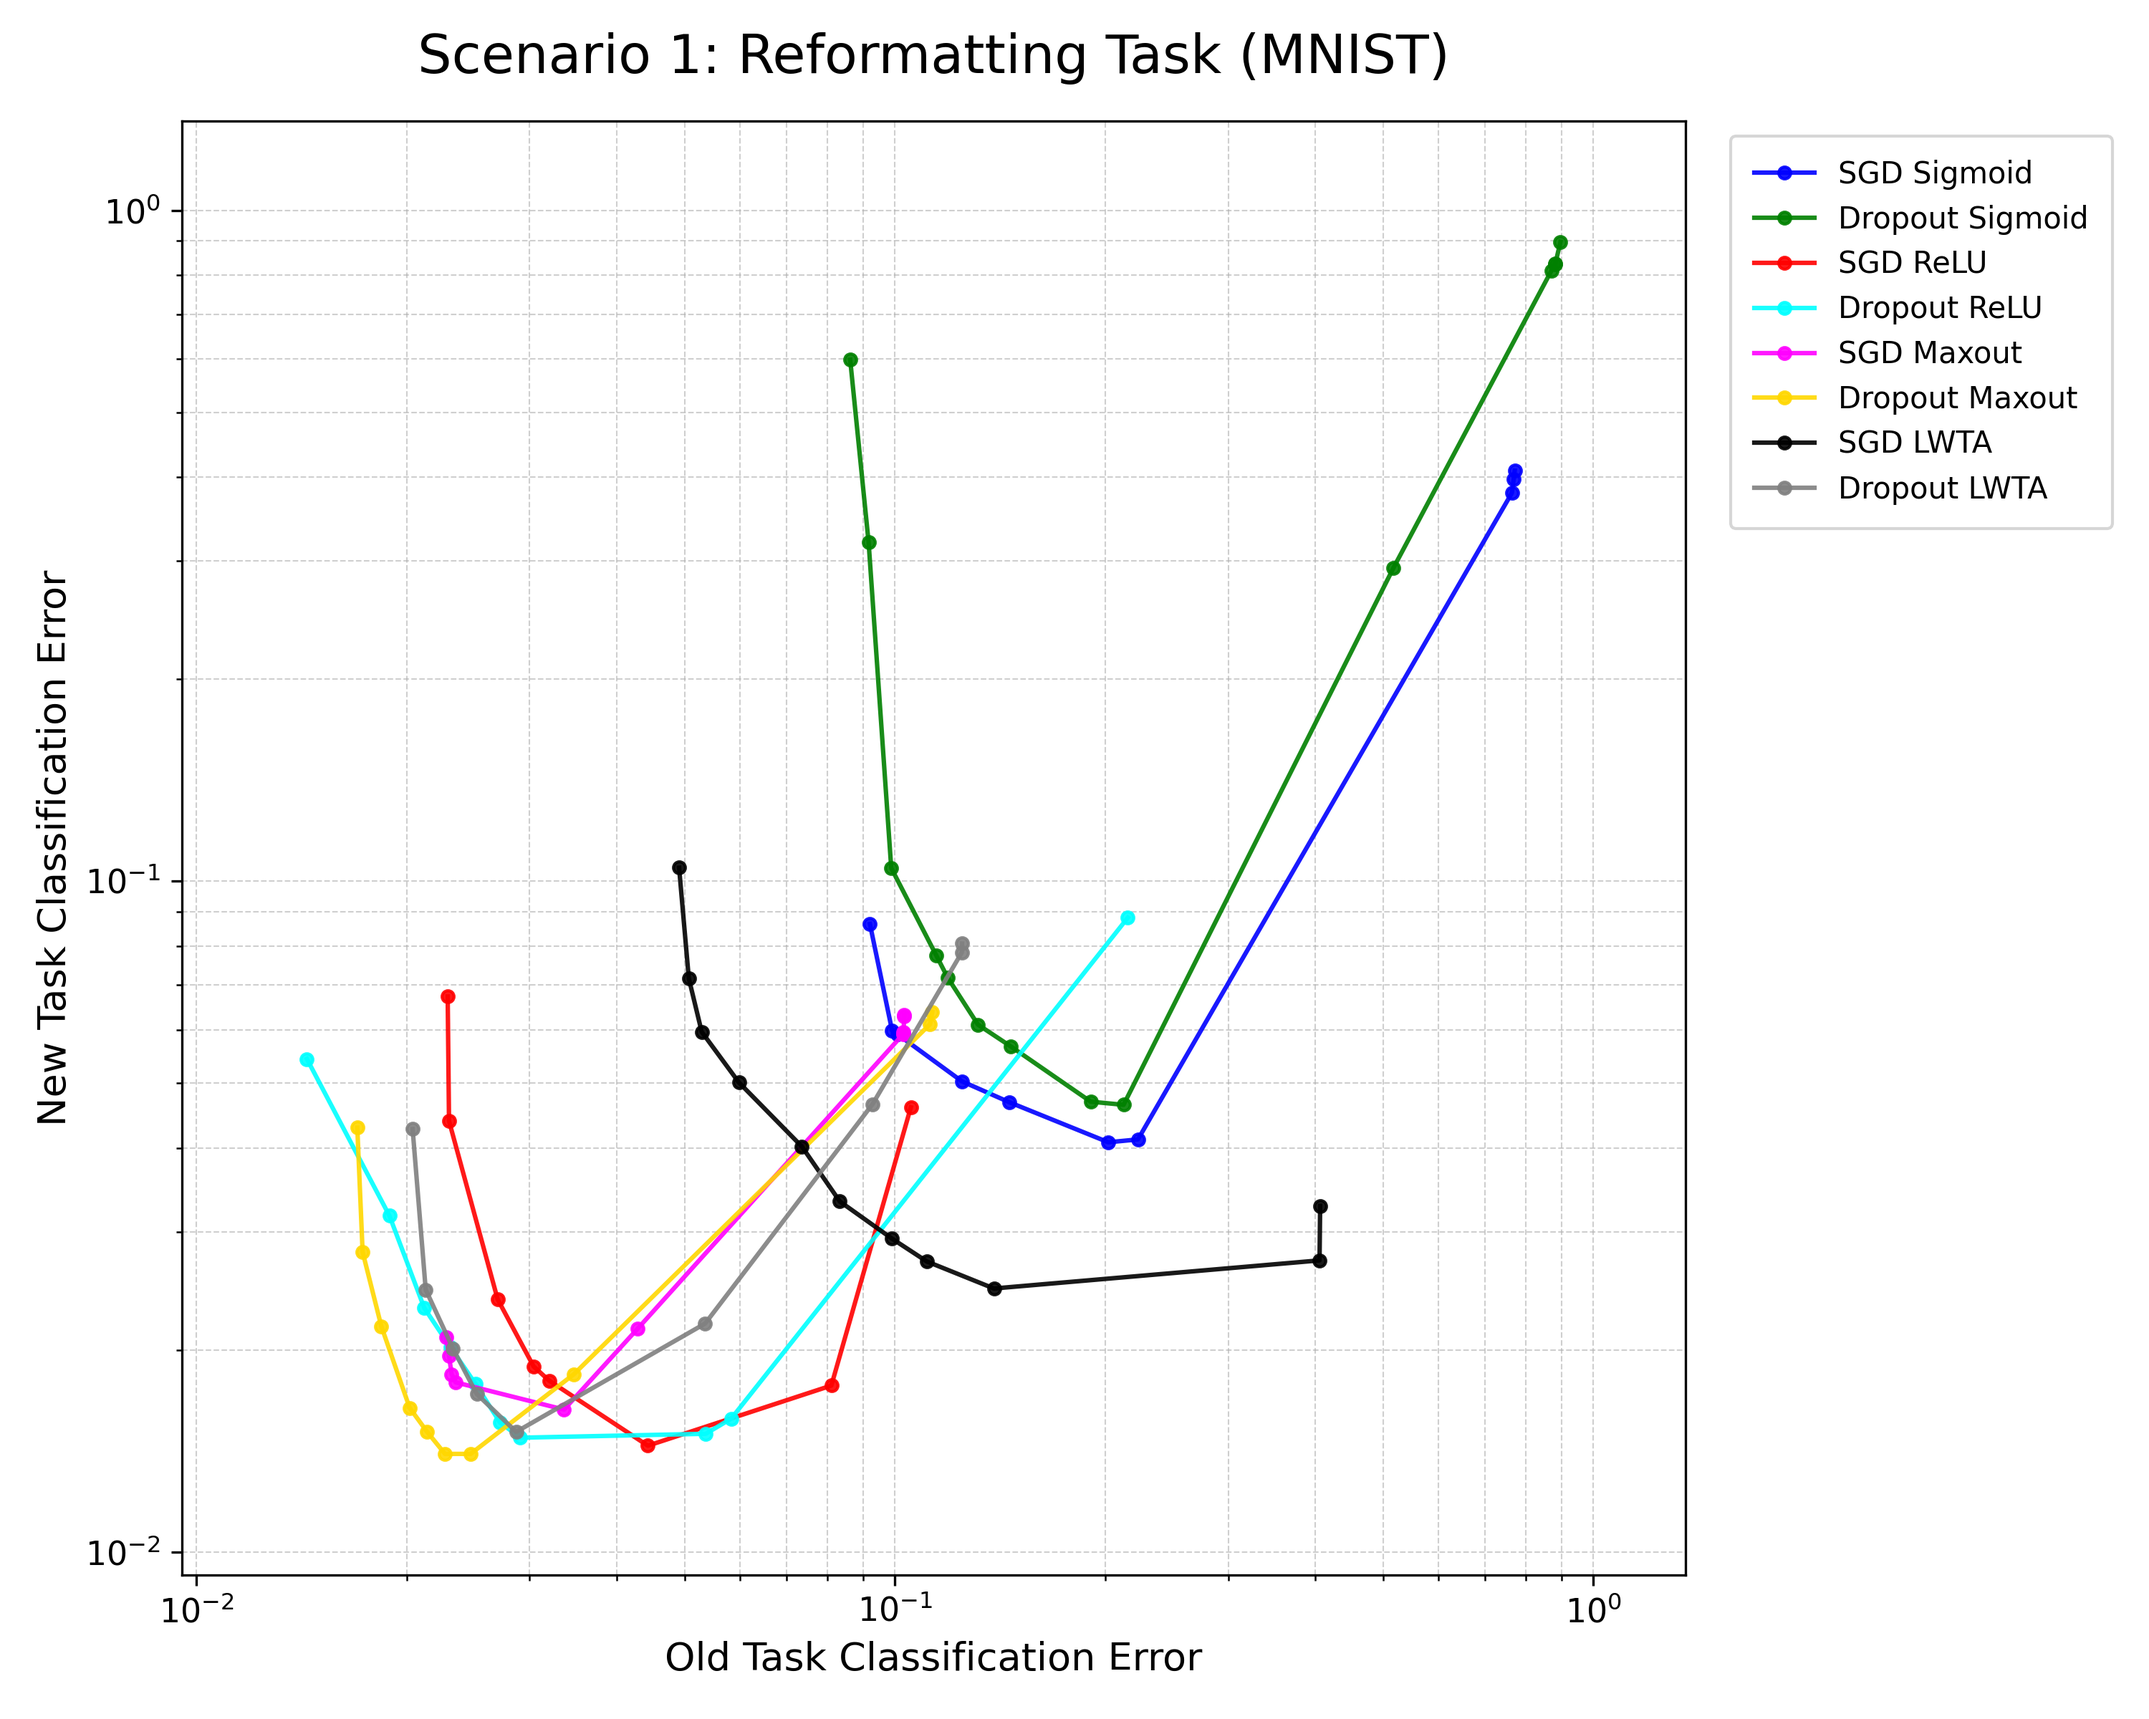
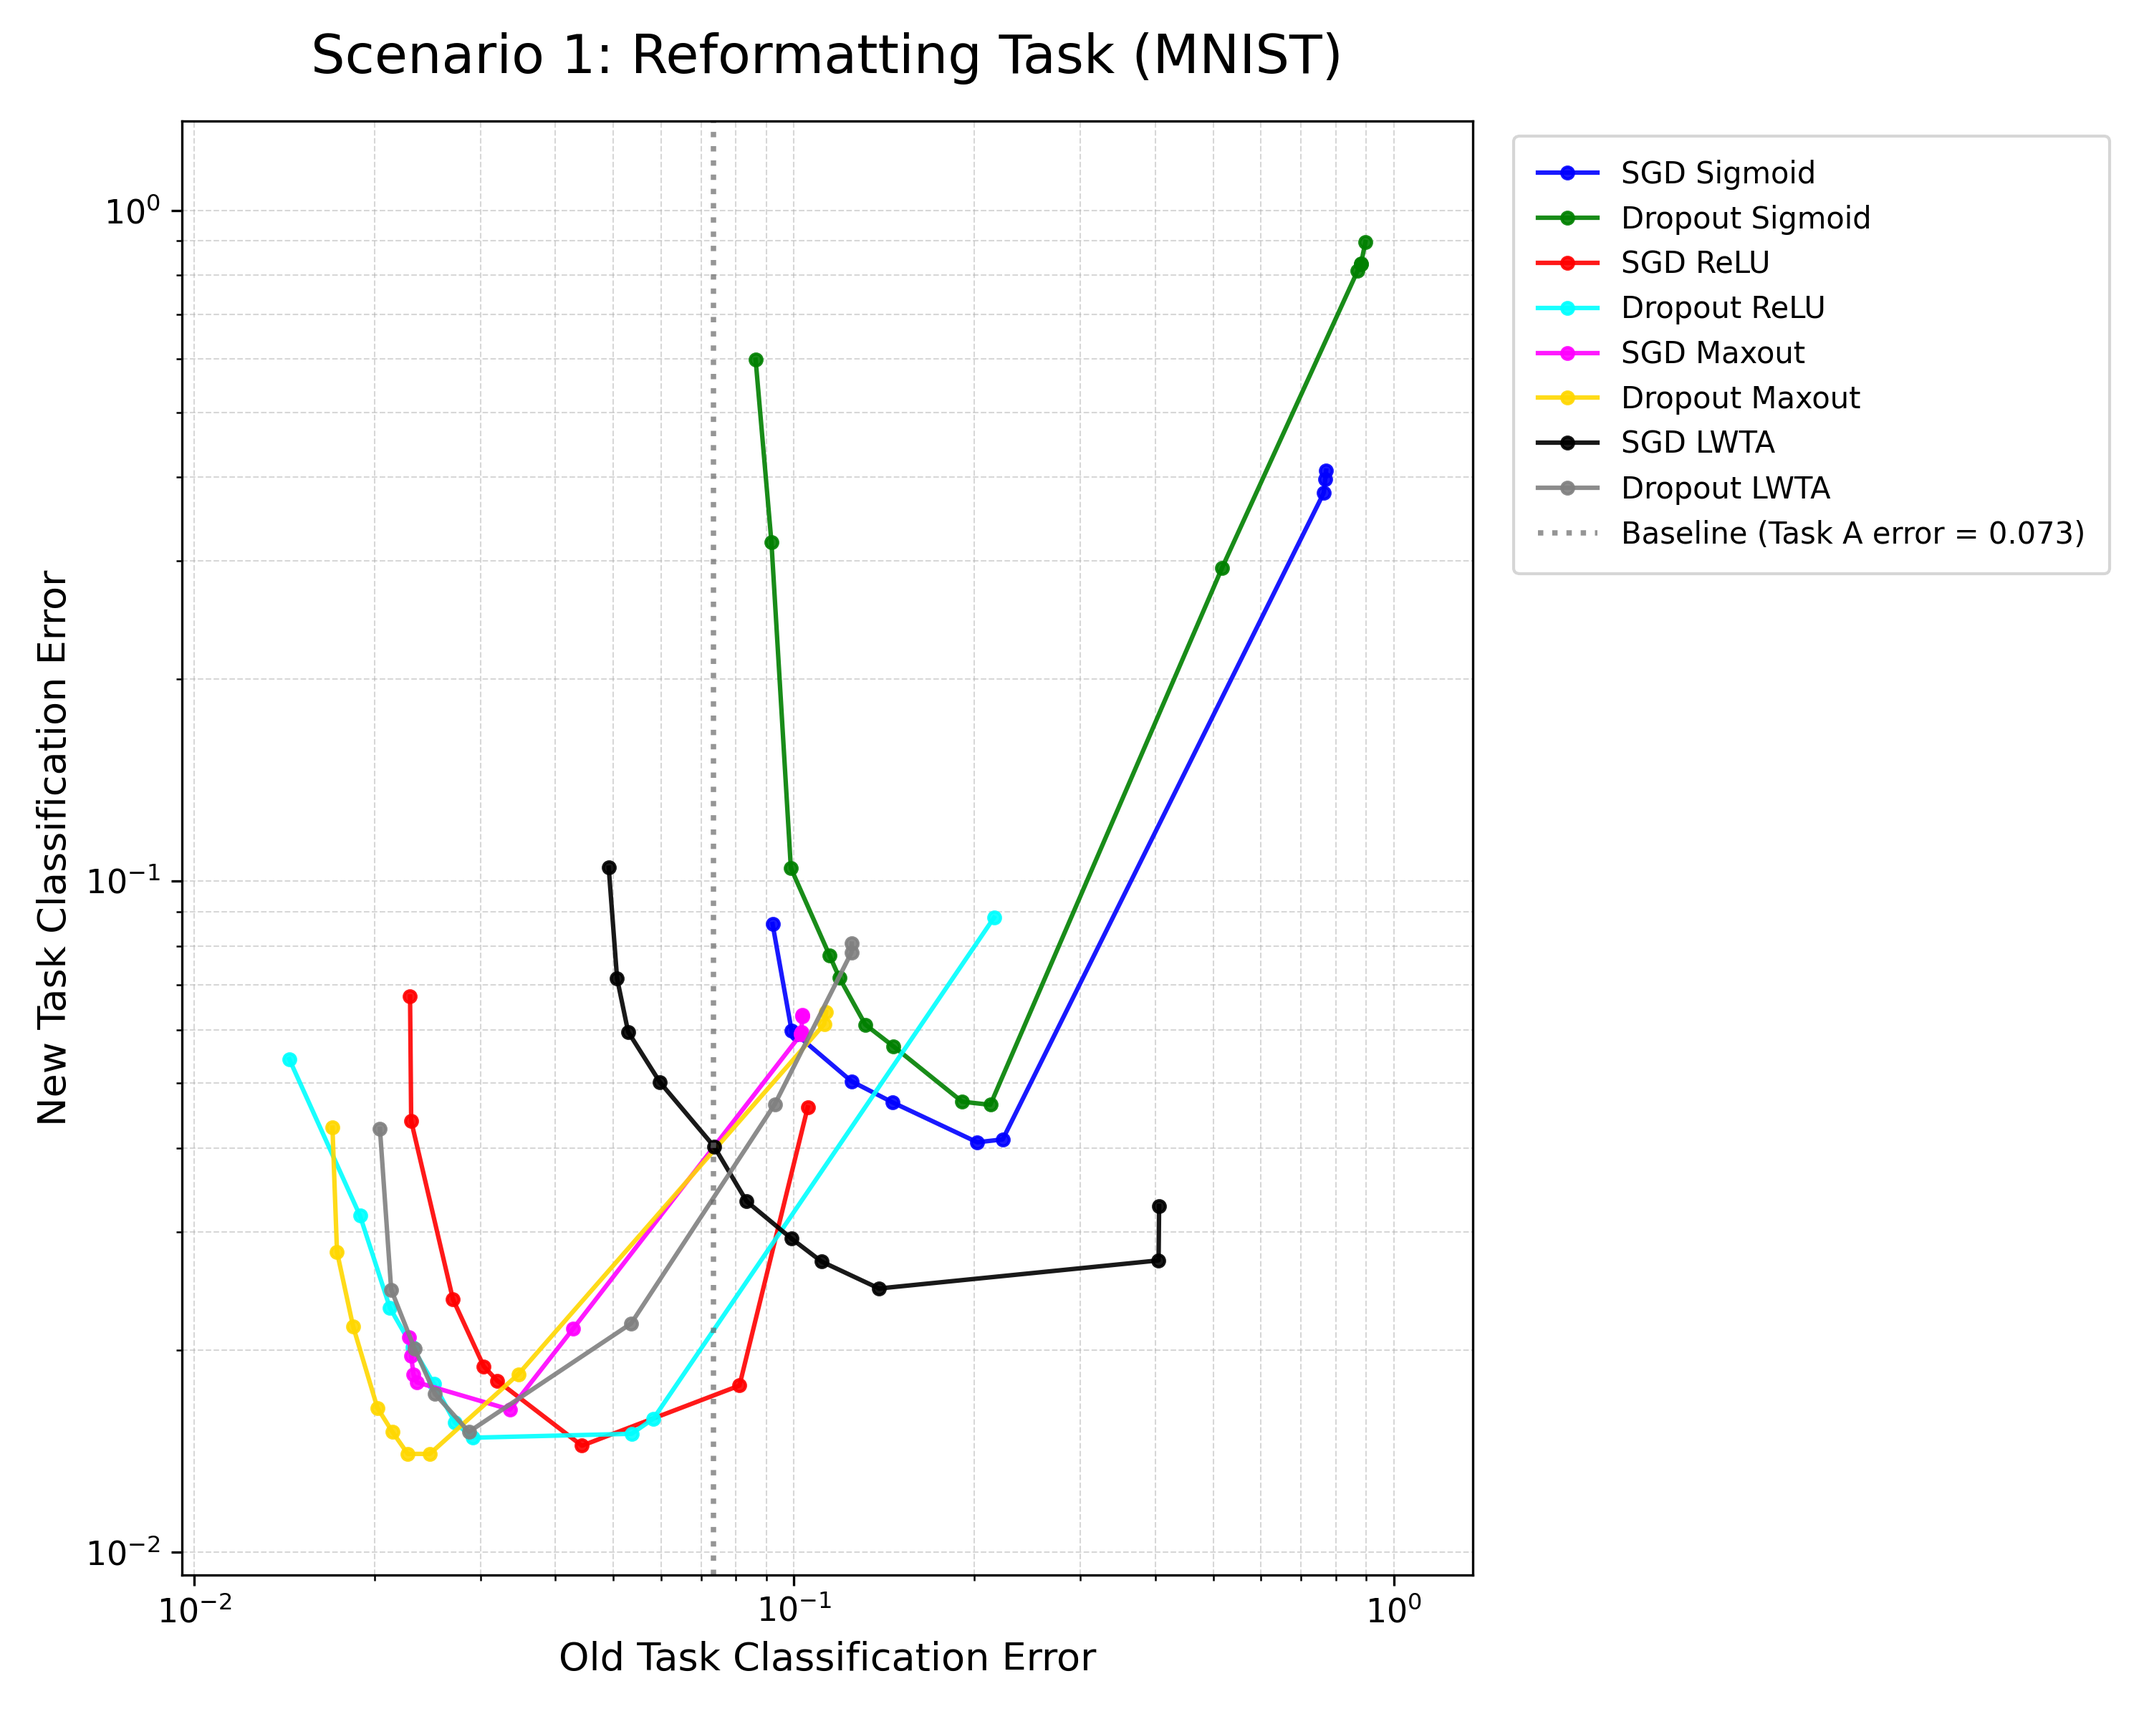
Add baseline axvline to all frontier plots; finalize visual fixes
- Vertical dotted line at median old-task error before new-task training
  serves as clear reference point for the reader (pre-forgetting baseline)
- grid alpha=0.5, linewidth=0.5 on all frontier plots
- All previous fixes confirmed: Scenario 2/3 titles, Fig3 axis limits

diff --git a/plot_results.py b/plot_results.py
@@ -68,11 +68,20 @@ def get_frontier_points(trial_summaries: Dict[str, List[dict]]) -> Dict[str, np.
         pts = pts[valid]
 
         if len(pts) > 0:
-            # שימוש בקמור התחתון במקום בפארטו המחמיר
             frontier = get_lower_convex_hull(pts)
             frontier_points[cond_name] = frontier
 
     return frontier_points
+
+
+def get_baseline_error(trial_summaries: Dict[str, List[dict]]) -> float:
+    """Median old-task error at epoch 0 of new-task training — the pre-forgetting reference."""
+    baselines = []
+    for trials in trial_summaries.values():
+        for t in trials:
+            if t["points"]:
+                baselines.append(t["points"][0][0])
+    return float(np.median(baselines)) if baselines else None
 
 # This function creates a visual graph (a scatter plot with connecting lines).
 # It shows us how many mistakes the model made on the old task versus the new task.
@@ -114,7 +123,7 @@ def plot_frontier_from_all_trials(
     ax.set_xscale('log')
     ax.set_yscale('log')
 
-    ax.grid(True, which="both", linestyle="--", linewidth=0.5, alpha=0.6)
+    ax.grid(True, which="both", linestyle="--", linewidth=0.5, alpha=0.5)
     ax.tick_params(axis="both", labelsize=11)
 
     limits = AXIS_LIMITS.get(scenario_num, dict(xlim=None, ylim=None))
@@ -123,6 +132,17 @@ def plot_frontier_from_all_trials(
         ax.set_ylim(limits["ylim"])
     else:
         ax.margins(0.1)
+
+    baseline = get_baseline_error(trial_summaries)
+    if baseline is not None:
+        ax.axvline(
+            x=baseline,
+            color="dimgray",
+            linestyle=":",
+            linewidth=1.8,
+            alpha=0.7,
+            label=f"Baseline (Task A error = {baseline:.3f})",
+        )
 
     ax.legend(
         bbox_to_anchor=(1.02, 1.0),
